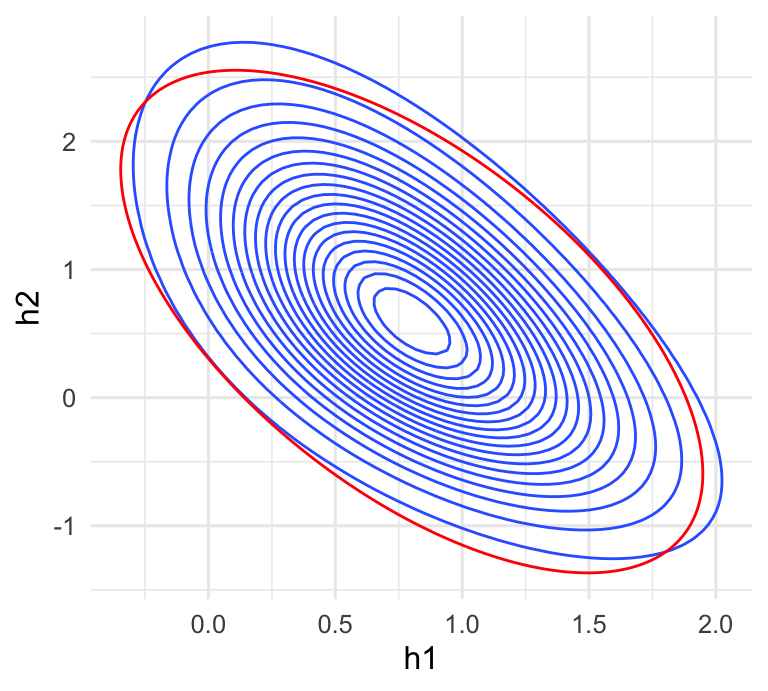
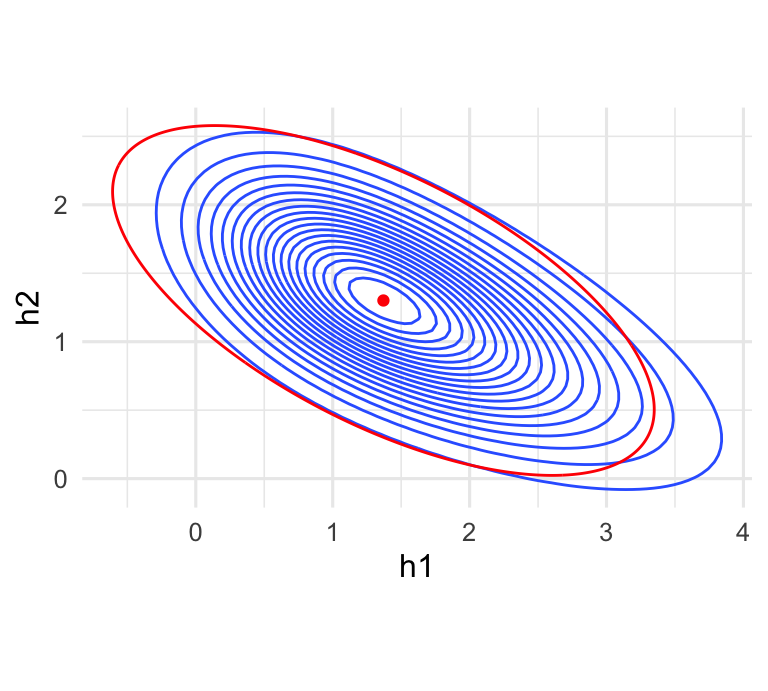
clustering

diff --git a/docs/articles/clustering.html b/docs/articles/clustering.html
@@ -209,20 +209,22 @@
 <a href="#approximate-the-posterior-distribution-using-the-laplace-method" class="anchor"></a>Approximate the posterior distribution using the Laplace method</h2>
 <p>Once parameters have been estimated, we can approximate the posterior distribution of each observation using a Laplace approximation. Consider the following example:</p>
 <div class="sourceCode" id="cb8"><pre class="sourceCode r"><code class="sourceCode r"><a class="sourceLine" id="cb8-1" data-line-number="1">MU =<span class="st"> </span><span class="kw"><a href="https://rdrr.io/r/base/c.html">c</a></span>(<span class="dv">0</span>, <span class="dv">2</span>)</a>
-<a class="sourceLine" id="cb8-2" data-line-number="2">SIGMA =<span class="st"> </span><span class="kw"><a href="https://rdrr.io/r/base/matrix.html">matrix</a></span>(<span class="kw"><a href="https://rdrr.io/r/base/c.html">c</a></span>(<span class="fl">0.5</span>, <span class="fl">-0.8</span>,</a>
-<a class="sourceLine" id="cb8-3" data-line-number="3">                 <span class="fl">-0.8</span>, <span class="dv">2</span>), <span class="dt">nrow =</span> <span class="dv">2</span>)</a>
+<a class="sourceLine" id="cb8-2" data-line-number="2">SIGMA =<span class="st"> </span><span class="kw"><a href="https://rdrr.io/r/base/matrix.html">matrix</a></span>(<span class="kw"><a href="https://rdrr.io/r/base/c.html">c</a></span>(<span class="dv">2</span>, <span class="fl">-0.8</span>,</a>
+<a class="sourceLine" id="cb8-3" data-line-number="3">                 <span class="fl">-0.8</span>, <span class="fl">0.5</span>), <span class="dt">nrow =</span> <span class="dv">2</span>)</a>
 <a class="sourceLine" id="cb8-4" data-line-number="4">x =<span class="st"> </span><span class="kw"><a href="https://rdrr.io/r/base/c.html">c</a></span>(<span class="dv">4</span>,<span class="dv">0</span>,<span class="dv">1</span>)</a></code></pre></div>
 <p>Event with probability</p>
 <div class="sourceCode" id="cb9"><pre class="sourceCode r"><code class="sourceCode r"><a class="sourceLine" id="cb9-1" data-line-number="1">(p0 &lt;-<span class="st"> </span><span class="kw"><a href="../reference/dlrnm.html">dlrnm</a></span>(x, MU, SIGMA, B))</a>
-<a class="sourceLine" id="cb9-2" data-line-number="2"><span class="co">#&gt; [1] 0.03484877</span></a></code></pre></div>
+<a class="sourceLine" id="cb9-2" data-line-number="2"><span class="co">#&gt; [1] 0.04695361</span></a></code></pre></div>
 <p>The posterior distribution of the probabilities are approximated using the Laplace method</p>
-<div class="sourceCode" id="cb10"><pre class="sourceCode r"><code class="sourceCode r"><a class="sourceLine" id="cb10-1" data-line-number="1">gH =<span class="st"> </span><span class="kw"><a href="https://rdrr.io/r/base/data.frame.html">data.frame</a></span>(<span class="kw"><a href="https://rdrr.io/r/base/expand.grid.html">expand.grid</a></span>(<span class="dt">h1 =</span> <span class="kw"><a href="https://rdrr.io/r/base/seq.html">seq</a></span>(<span class="op">-</span><span class="dv">1</span>, <span class="dv">3</span>, <span class="dt">length.out =</span> <span class="dv">100</span>), <span class="dt">h2 =</span> <span class="kw"><a href="https://rdrr.io/r/base/seq.html">seq</a></span>(<span class="op">-</span><span class="dv">2</span>, <span class="dv">3</span>, <span class="dt">length.out =</span> <span class="dv">100</span>)))</a>
+<div class="sourceCode" id="cb10"><pre class="sourceCode r"><code class="sourceCode r"><a class="sourceLine" id="cb10-1" data-line-number="1">gH =<span class="st"> </span><span class="kw"><a href="https://rdrr.io/r/base/data.frame.html">data.frame</a></span>(<span class="kw"><a href="https://rdrr.io/r/base/expand.grid.html">expand.grid</a></span>(<span class="dt">h1 =</span> <span class="kw"><a href="https://rdrr.io/r/base/seq.html">seq</a></span>(<span class="op">-</span><span class="dv">1</span>, <span class="dv">4</span>, <span class="dt">length.out =</span> <span class="dv">100</span>), <span class="dt">h2 =</span> <span class="kw"><a href="https://rdrr.io/r/base/seq.html">seq</a></span>(<span class="op">-</span><span class="dv">2</span>, <span class="dv">3</span>, <span class="dt">length.out =</span> <span class="dv">100</span>)))</a>
 <a class="sourceLine" id="cb10-2" data-line-number="2">gH<span class="op">$</span>density =<span class="st"> </span><span class="kw"><a href="https://rdrr.io/r/base/Log.html">exp</a></span>(<span class="kw"><a href="https://rdrr.io/r/base/apply.html">apply</a></span>(gH,<span class="dv">1</span>,<span class="cf">function</span>(h_) <span class="kw">log_join_lrnm</span>(x, h_, MU, SIGMA, B))) <span class="op">/</span><span class="st"> </span>p0</a>
 <a class="sourceLine" id="cb10-3" data-line-number="3">plt =<span class="st"> </span><span class="kw"><a href="https://rdrr.io/pkg/ggtern/man/ggplot.html">ggplot</a></span>() <span class="op">+</span></a>
 <a class="sourceLine" id="cb10-4" data-line-number="4"><span class="st">  </span><span class="kw">geom_contour</span>(<span class="dt">data =</span> gH, <span class="kw"><a href="https://rdrr.io/pkg/ggtern/man/aes.html">aes</a></span>(<span class="dt">x=</span>h1, <span class="dt">y=</span>h2, <span class="dt">z=</span>density), <span class="dt">bins =</span> <span class="dv">20</span>)</a>
 <a class="sourceLine" id="cb10-5" data-line-number="5">lNx =<span class="st"> </span><span class="kw"><a href="../reference/lrnm_posterior_approx.html">lrnm_posterior_approx</a></span>(<span class="kw"><a href="https://rdrr.io/r/base/cbind.html">rbind</a></span>(x), MU, SIGMA, B)[[<span class="dv">1</span>]]</a>
 <a class="sourceLine" id="cb10-6" data-line-number="6">plt <span class="op">+</span></a>
-<a class="sourceLine" id="cb10-7" data-line-number="7"><span class="st">  </span><span class="kw">geom_path</span>(<span class="dt">data =</span> <span class="kw">ellipse</span>(lNx<span class="op">$</span>mu, lNx<span class="op">$</span>sigma, <span class="fl">0.95</span>),  <span class="kw"><a href="https://rdrr.io/pkg/ggtern/man/aes.html">aes</a></span>(<span class="dt">x =</span> V1, <span class="dt">y =</span> V2), <span class="dt">col =</span> <span class="st">'red'</span>)</a></code></pre></div>
+<a class="sourceLine" id="cb10-7" data-line-number="7"><span class="st">  </span><span class="kw">geom_point</span>(<span class="kw"><a href="https://rdrr.io/pkg/ggtern/man/aes.html">aes</a></span>(<span class="dt">x=</span>lNx<span class="op">$</span>mu[<span class="dv">1</span>], <span class="dt">y=</span>lNx<span class="op">$</span>mu[<span class="dv">2</span>]), <span class="dt">col =</span> <span class="st">'red'</span>) <span class="op">+</span></a>
+<a class="sourceLine" id="cb10-8" data-line-number="8"><span class="st">  </span><span class="kw">geom_path</span>(<span class="dt">data =</span> <span class="kw">ellipse</span>(lNx<span class="op">$</span>mu, lNx<span class="op">$</span>sigma, <span class="fl">0.95</span>),  <span class="kw"><a href="https://rdrr.io/pkg/ggtern/man/aes.html">aes</a></span>(<span class="dt">x =</span> V1, <span class="dt">y =</span> V2), <span class="dt">col =</span> <span class="st">'red'</span>) <span class="op">+</span></a>
+<a class="sourceLine" id="cb10-9" data-line-number="9"><span class="st">  </span><span class="kw">coord_fixed</span>()</a></code></pre></div>
 <p><img src="clustering_files/figure-html/unnamed-chunk-10-1.png" width="384"></p>
 </div>
 <div id="defining-a-distance-between-count-observations" class="section level2">
